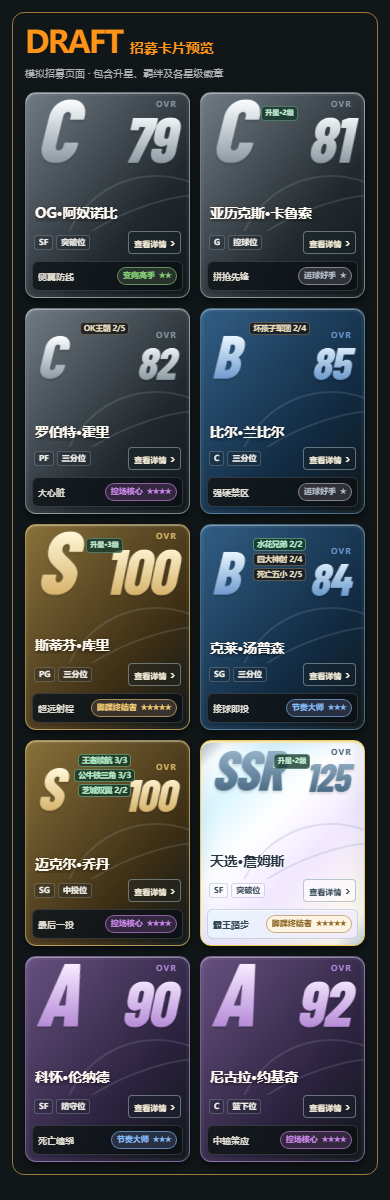
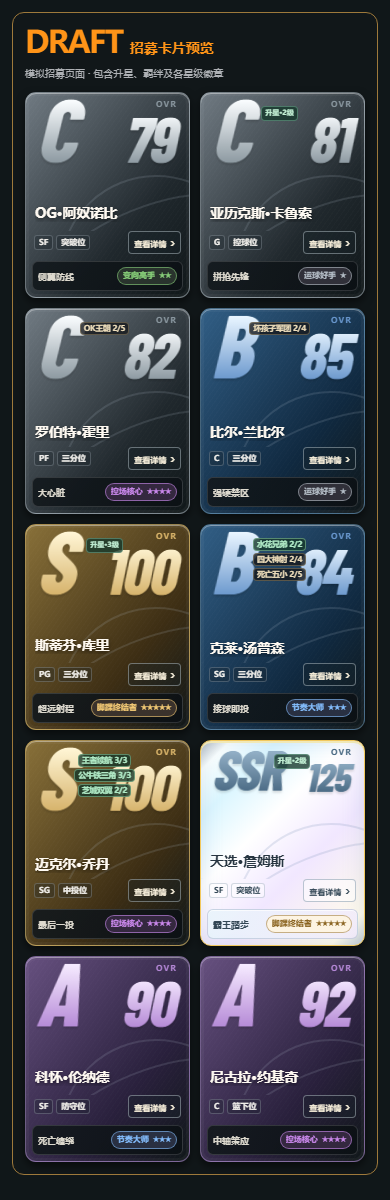
样式修改

diff --git a/artifacts/界面预览/招募卡片-正式.html b/artifacts/界面预览/招募卡片-正式.html
@@ -706,7 +706,7 @@
   overflow: hidden
 }
 .game-modal:not(.recruit-sheet-modal):not(.sell-confirm-modal) .modal-card{padding:10px}
-.game-modal .modal-card.bonds-modal{padding:8px}
+.game-modal:not(.recruit-sheet-modal):not(.sell-confirm-modal) .modal-card.bonds-modal{padding:8px}
 .game-modal .bonds-modal .modal-head{padding:0 0 3px}
 .game-modal .bonds-modal .bond-summary{padding:2px 0 8px}
 .game-modal .bonds-modal .bond-list{padding:0}
@@ -2087,12 +2087,8 @@ button[data-network-pending]::after { content: ''; display: inline-block; width:
 :is(#recruit,.recruit-card-preview).draft-style-material .card.recruitment-card.ssr-card .visual-number{right:12px;opacity:1;color:transparent;text-shadow:none;filter:none}
 :is(#recruit,.recruit-card-preview).draft-style-material .card.recruitment-card.ssr-card .card-visual strong{max-width:none}
 :is(#recruit,.recruit-card-preview).draft-style-material .card.recruitment-card .draft-center-hints{top:13px;left:46px;right:52px}
-:is(#recruit,.recruit-card-preview).draft-style-material .card.recruitment-card:has(.draft-bond-hints) .card-top .rarity{font-size:60px}
-:is(#recruit,.recruit-card-preview).draft-style-material .card.recruitment-card:has(.draft-bond-hints) .visual-number b{font-size:46px}
 :is(#recruit,.recruit-card-preview).draft-style-material .card.recruitment-card.tier-legend .draft-center-hints{left:68px;right:49px}
-:is(#recruit,.recruit-card-preview).draft-style-material .card.recruitment-card.tier-legend:has(.draft-bond-hints) .card-top .rarity{font-size:38px}
-:is(#recruit,.recruit-card-preview).draft-style-material .card.recruitment-card.tier-legend:has(.draft-bond-hints) .visual-number b{font-size:34px}
-@media(max-width:360px){:is(#recruit,.recruit-card-preview).draft-style-material .card.recruitment-card.tier-legend .draft-center-hints{left:58px;right:44px}:is(#recruit,.recruit-card-preview).draft-style-material .card.recruitment-card.tier-legend:has(.draft-bond-hints) .card-top .rarity{font-size:30px}:is(#recruit,.recruit-card-preview).draft-style-material .card.recruitment-card.tier-legend:has(.draft-bond-hints) .visual-number b{font-size:30px}}
+@media(max-width:360px){:is(#recruit,.recruit-card-preview).draft-style-material .card.recruitment-card.tier-legend .draft-center-hints{left:58px;right:44px}}
 @media(max-width:360px){:is(#recruit,.recruit-card-preview).draft-style-material .card.recruitment-card .draft-bond-hints i{font-size:6.5px;padding:0 2px;line-height:1.15}}
 :is(#recruit,.recruit-card-preview).draft-style-material .card.recruitment-card .card-visual:has(.draft-bond-hints) strong{bottom:6px}
 </style><style>/* 首页方案一：所有视觉覆盖仅作用于首页。 */

diff --git a/h5/styles/recruit-cards.css b/h5/styles/recruit-cards.css
@@ -82,11 +82,7 @@
 :is(#recruit,.recruit-card-preview).draft-style-material .card.recruitment-card.ssr-card .visual-number{right:12px;opacity:1;color:transparent;text-shadow:none;filter:none}
 :is(#recruit,.recruit-card-preview).draft-style-material .card.recruitment-card.ssr-card .card-visual strong{max-width:none}
 :is(#recruit,.recruit-card-preview).draft-style-material .card.recruitment-card .draft-center-hints{top:13px;left:46px;right:52px}
-:is(#recruit,.recruit-card-preview).draft-style-material .card.recruitment-card:has(.draft-bond-hints) .card-top .rarity{font-size:60px}
-:is(#recruit,.recruit-card-preview).draft-style-material .card.recruitment-card:has(.draft-bond-hints) .visual-number b{font-size:46px}
 :is(#recruit,.recruit-card-preview).draft-style-material .card.recruitment-card.tier-legend .draft-center-hints{left:68px;right:49px}
-:is(#recruit,.recruit-card-preview).draft-style-material .card.recruitment-card.tier-legend:has(.draft-bond-hints) .card-top .rarity{font-size:38px}
-:is(#recruit,.recruit-card-preview).draft-style-material .card.recruitment-card.tier-legend:has(.draft-bond-hints) .visual-number b{font-size:34px}
-@media(max-width:360px){:is(#recruit,.recruit-card-preview).draft-style-material .card.recruitment-card.tier-legend .draft-center-hints{left:58px;right:44px}:is(#recruit,.recruit-card-preview).draft-style-material .card.recruitment-card.tier-legend:has(.draft-bond-hints) .card-top .rarity{font-size:30px}:is(#recruit,.recruit-card-preview).draft-style-material .card.recruitment-card.tier-legend:has(.draft-bond-hints) .visual-number b{font-size:30px}}
+@media(max-width:360px){:is(#recruit,.recruit-card-preview).draft-style-material .card.recruitment-card.tier-legend .draft-center-hints{left:58px;right:44px}}
 @media(max-width:360px){:is(#recruit,.recruit-card-preview).draft-style-material .card.recruitment-card .draft-bond-hints i{font-size:6.5px;padding:0 2px;line-height:1.15}}
 :is(#recruit,.recruit-card-preview).draft-style-material .card.recruitment-card .card-visual:has(.draft-bond-hints) strong{bottom:6px}
